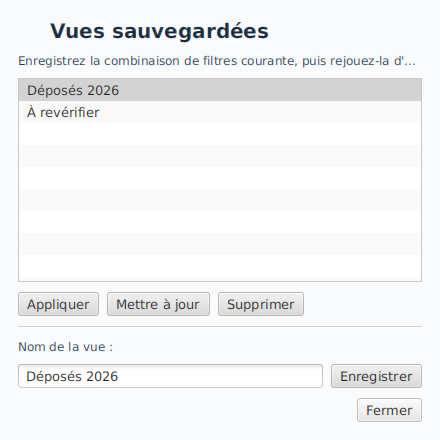
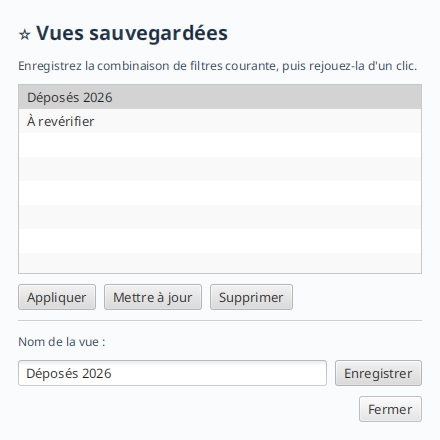
fix(multisite): poignées de repli dans la barre d'actions (#328)
Les poignées ◀/▶ (repli carte/tableau, #314) étaient superposées en TOP_CENTER
du SplitPane : avec le diviseur à 0,42 elles tombaient sur l'en-tête du tableau,
chevauchaient les libellés de colonnes et tronquaient « Carré » → « Ca… ».

- Déplacées dans la barre d'actions, à côté de « Exporter… », en boutons
  libellés « ◀ Carte » / « Tableau ▶ » (le chevron suit toujours l'action via
  majPoignees). Plus aucun chevauchement, intégration nette, focus standard.
- Suppression de la superposition (StackPane wrapper + HBox poigneesAffichage) :
  le SplitPane est désormais enfant direct (VBox.vgrow). CSS .poignees-affichage
  / .poignee-repli retiré (mort), import HBox retiré.

Comportement et tests inchangés : MultisiteVueIntegrationTest (clics par fx:id,
repli/réouverture, dernier panneau non repliable) — 28 tests multisite verts,
-Pquality-gate verify complet vert. Aperçus régénérés.

diff --git a/src/main/java/fr/univ_amu/iut/multisite/view/multisite.css b/src/main/java/fr/univ_amu/iut/multisite/view/multisite.css
@@ -37,27 +37,6 @@
   -fx-text-fill: #a93226;
 }
 
-/* Poignées de repli ◀/▶ superposées au sommet du split carte | tableau (#152) : replient
-   entièrement un panneau pour donner toute la largeur à l'autre. Discrètes mais focusables. */
-.poignees-affichage {
-  -fx-padding: 2 0 0 0;
-}
-
-.poignee-repli {
-  -fx-background-color: rgba(255, 255, 255, 0.92);
-  -fx-border-color: #d0d7de;
-  -fx-border-radius: 4;
-  -fx-background-radius: 4;
-  -fx-text-fill: #34495e;
-  -fx-font-size: 12px;
-  -fx-padding: 1 8 1 8;
-}
-
-.poignee-repli:hover {
-  -fx-background-color: #ffffff;
-  -fx-text-fill: #1a5276;
-}
-
 /* Bouton chevron qui replie/déplie la légende posée sur la carte (#152). */
 .bascule-legende {
   -fx-background-color: transparent;

diff --git a/src/main/java/fr/univ_amu/iut/multisite/view/MultisiteController.java b/src/main/java/fr/univ_amu/iut/multisite/view/MultisiteController.java
@@ -264,18 +264,18 @@ public class MultisiteController implements RafraichirAuRetour {
 
         configurerPoignee(
                 boutonReplierCarte,
-                carteVisible ? FLECHE_GAUCHE : FLECHE_DROITE,
+                (carteVisible ? FLECHE_GAUCHE : FLECHE_DROITE) + " Carte",
                 carteVisible ? "Masquer la carte" : "Afficher la carte",
                 tableauVisible);
         configurerPoignee(
                 boutonReplierTableau,
-                tableauVisible ? FLECHE_DROITE : FLECHE_GAUCHE,
+                "Tableau " + (tableauVisible ? FLECHE_DROITE : FLECHE_GAUCHE),
                 tableauVisible ? "Masquer le tableau" : "Afficher le tableau",
                 carteVisible);
     }
 
-    private static void configurerPoignee(Button poignee, String glyphe, String description, boolean actif) {
-        poignee.setText(glyphe);
+    private static void configurerPoignee(Button poignee, String libelle, String description, boolean actif) {
+        poignee.setText(libelle);
         poignee.setAccessibleText(description);
         poignee.setTooltip(new Tooltip(description));
         poignee.setDisable(!actif);